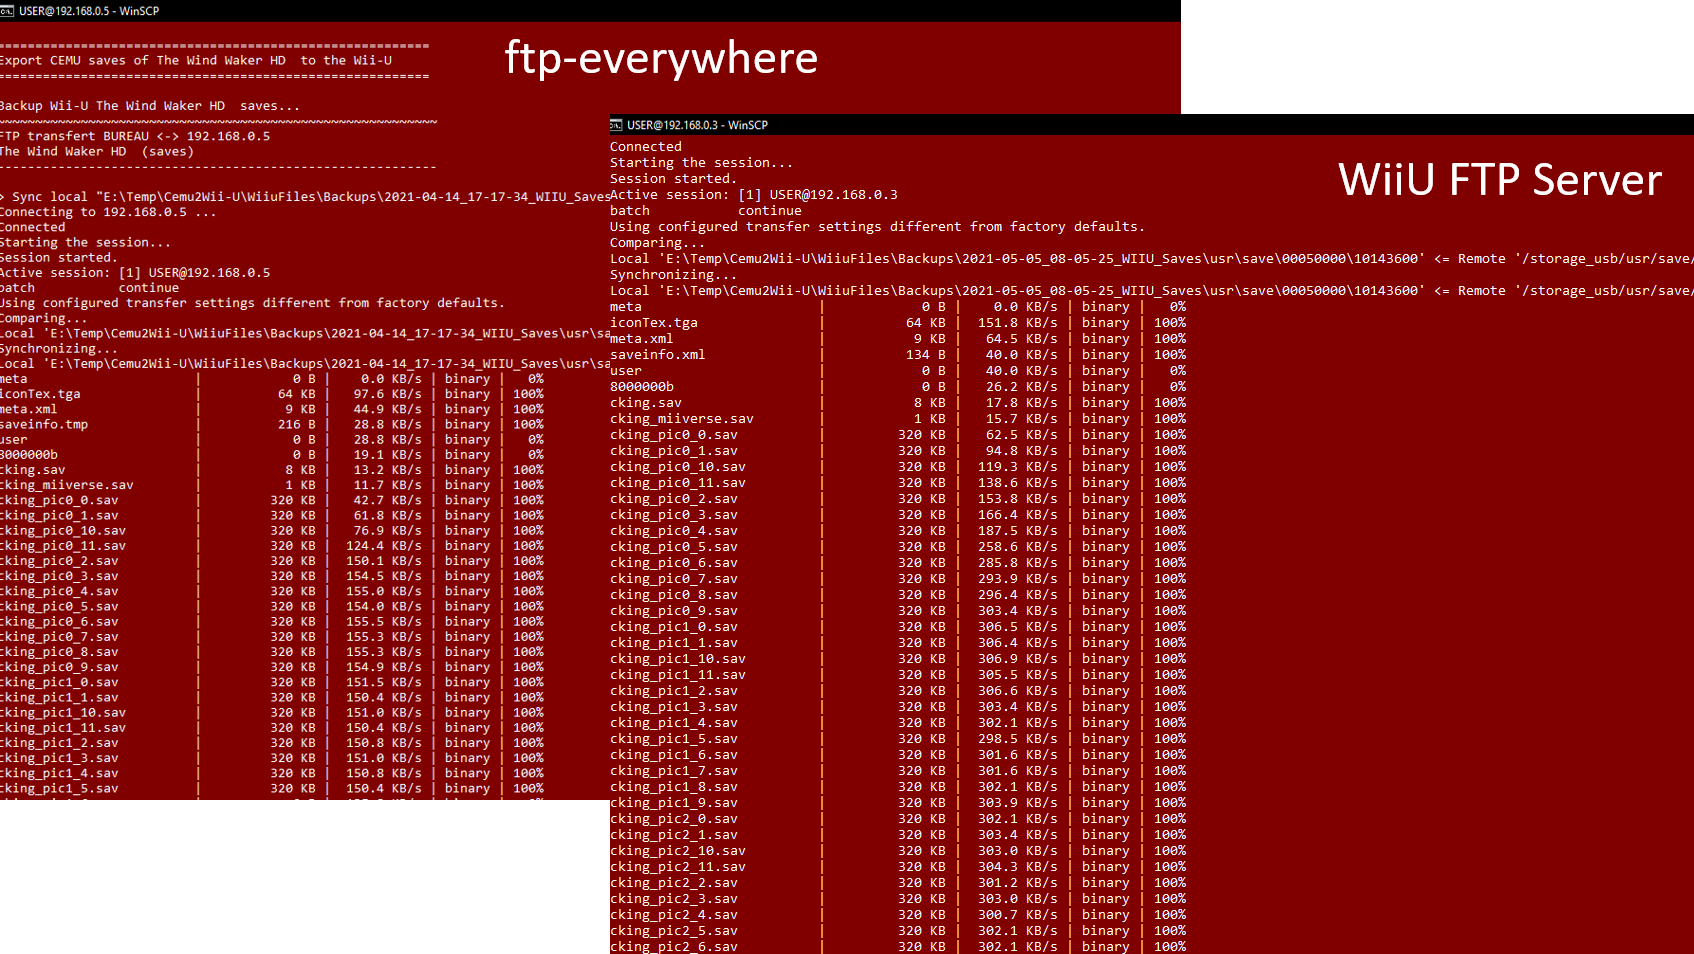
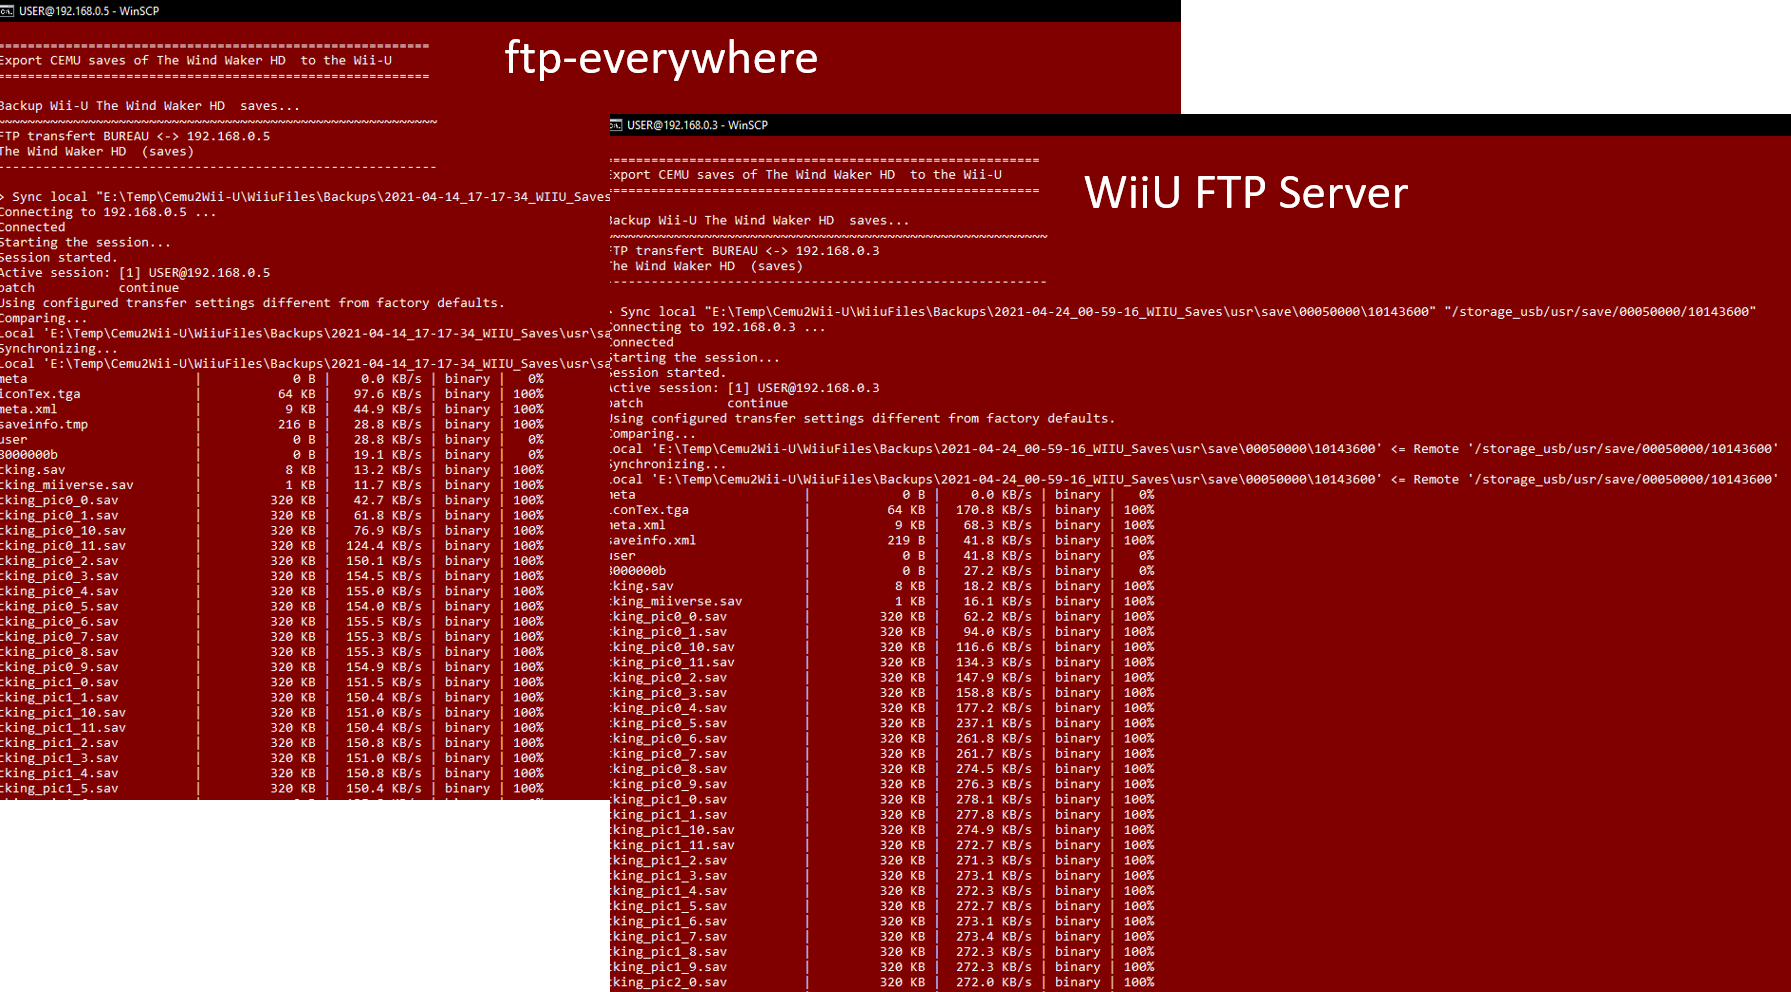
V3
fix timestamps on files and folders

Changed region(s): [[0.0, 0.0, 1.0, 1.0], [0.8595, 0.2432, 0.8902, 0.2736]]

diff --git a/src/ftp.c b/src/ftp.c
@@ -5,6 +5,7 @@
   * 2021/04/26:V1.2.0:Laf111: change the 421 msg 
   * 2021/04/30:V2.0.0:Laf111: revert to timeOs for timestamp
   * 2021/05/06:V2.1.0:Laf111: IOSUHAX_FSA_ChangeMode on folder created remotely
+  * 2021/05/13:V3.0.0:Laf111: fix timestamps on files and folders
  ***************************************************************************/
 #include <malloc.h>
 #include <stdlib.h>
@@ -37,6 +38,8 @@ static char *password = NULL;
 
 // OS time computed in main
 static struct tm *timeOs=NULL;
+// OS time computed in main
+static time_t tsOs=0;
 
 // IOSUHAX fd
 static int fsaFd = -1;
@@ -133,6 +136,36 @@ static char* virtualToVolPath(char *vPath) {
 
     return "";
 }
+
+// transform a date from J1980 with microseconds to J1970 (UNIX epoch)
+// GetStat can return 0 with faulty time stamp ! -> add check on time stamp value
+static struct tm getDateEpoch(time_t ts1980) {
+    // output 
+    struct tm *time=NULL;
+    // initialized with timeOs
+    if (timeOs == NULL) return *(localtime(NULL));
+
+    if (ts1980 == 0) return (*timeOs);
+    time=timeOs;
+    
+    // WHBLogPrintf("ts1980 = %" PRId64, ts1980);
+    
+    // check ts1980 value (1980 epoch with micro seconds)
+    // 01/01/2010 00:00:00 -> 946771200,  with us = 946771200000000
+    // 01/01/2038 00:00:00 -> 1830384000, with us = 1830384000000000
+    time_t tsMax = tsOs + 86400*2;
+    
+    if ( ts1980 <= 946771200000000 || ts1980 >= tsMax) return *time;
+    
+    // compute the timestamp in J1970 Epoch (1972 and 1976 got 366 days)
+    time_t ts1970 = ts1980/1000000 + 86400*((366*2) + (365*8));
+    
+    // get the corresponding tm
+    time=localtime(&ts1970);
+    
+    return (*time);
+    
+}    
 
 void set_ftp_password(char *new_password) {
 	if (password) free(password);
@@ -482,23 +515,35 @@ static int32_t send_nlst(int32_t data_socket, DIR_P *iter) {
 }
 
 static int32_t send_list(int32_t data_socket, DIR_P *iter) {
-	struct stat st;
+
 	int32_t result = 0;
-    uint64_t size = 0;
+
 	char filename[MAXPATHLEN] = "";
 	char line[MAXPATHLEN + 56 + CRLF_LENGTH + 1];
 	struct dirent *dirent = NULL;
     
-    // dim = 13
-    char timestamp[13]="";
-        
 	while ((dirent = vrt_readdir(iter)) != 0) {
+
 		snprintf(filename, sizeof(filename), "%s/%s", iter->path, dirent->d_name);
-		stat(filename, &st);
+        // get volume path
+        char *volPath = NULL;
+        volPath = virtualToVolPath(filename);    
         
-        size = st.st_size;
-        if (timeOs != NULL) strftime(timestamp, sizeof(timestamp), "%b %d  %Y", timeOs);                        
-        else strftime(timestamp, sizeof(timestamp), "%b %d  %Y", localtime(NULL));
+        IOSUHAX_FSA_Stat fStat;
+        struct tm timeinfo;
+        
+        // get stats with IOSUHAX
+        IOSUHAX_FSA_GetStat(fsaFd, volPath, &fStat);    
+        free(volPath);
+
+        uint64_t size = 0;
+        size = fStat.size;
+        // compute date to display : transform a date from J1980 with microseconds to J1970 (UNIX epoch)
+        timeinfo = getDateEpoch((time_t)fStat.modified);
+        
+        // dim = 13
+        char timestamp[13]="";
+        strftime(timestamp, sizeof(timestamp), "%b %d  %Y", &timeinfo);                        
 
 		snprintf(line, sizeof(line), "%crwxr-xr-x	1 0		0	 %10llu %s %s\r\n", (dirent->d_type & DT_DIR) ? 'd' : '-', size, timestamp, dirent->d_name);
 		if ((result = send_exact(data_socket, line, strlen(line))) < 0) {
@@ -966,6 +1011,12 @@ static void process_control_events(client_t *client) {
 }
 
 bool process_ftp_events(int32_t server) {
+    
+    if (timeOs != NULL && tsOs == 0) {
+        time_t ts1970=mktime(timeOs);
+        // compute the timestamp in J1980 Epoch (1972 and 1976 got 366 days)
+        tsOs = ts1970*1000000 + 86400*((366*2) + (365*8) +1);        
+    }        
     
 	bool network_down = !process_accept_events(server);    
     int client_index;

diff --git a/src/receivedFiles.c b/src/receivedFiles.c
@@ -44,8 +44,7 @@ void SetVolPath(char *volPath, int fd) {
         
         // set the file descriptor
         files[nbFiles]->fd = fd;
-        // set the completion status to 0
-        files[nbFiles]->downloaded = 0;
+
         
         // allocate and set the full volume path to the file        
         int len = strlen(volPath)+1;        

diff --git a/src/main.c b/src/main.c
@@ -22,7 +22,6 @@
 #include <malloc.h>
 #include <string.h> 
 
-
 #include "ftp.h"
 #include "virtualpath.h"
 #include "net.h"
@@ -146,6 +145,7 @@ int main()
     tmTime.tm_wday  =   osDateTime.tm_wday;
     tmTime.tm_yday  =   osDateTime.tm_yday;
     
+    // save GMT OS Time in ftp.c
     setOsTime(&tmTime);
 
      // Check if a CFW is active

diff --git a/src/receivedFiles.h b/src/receivedFiles.h
@@ -14,9 +14,7 @@ struct ENTRY {
     char *path;
     // file descriptor 
     int fd;
-    // dowloaded status
-    int downloaded;
-} ;
+};
 
 void   SetVolPath(char *volPath, int fd);
 int    ChmodFile(int fd);
